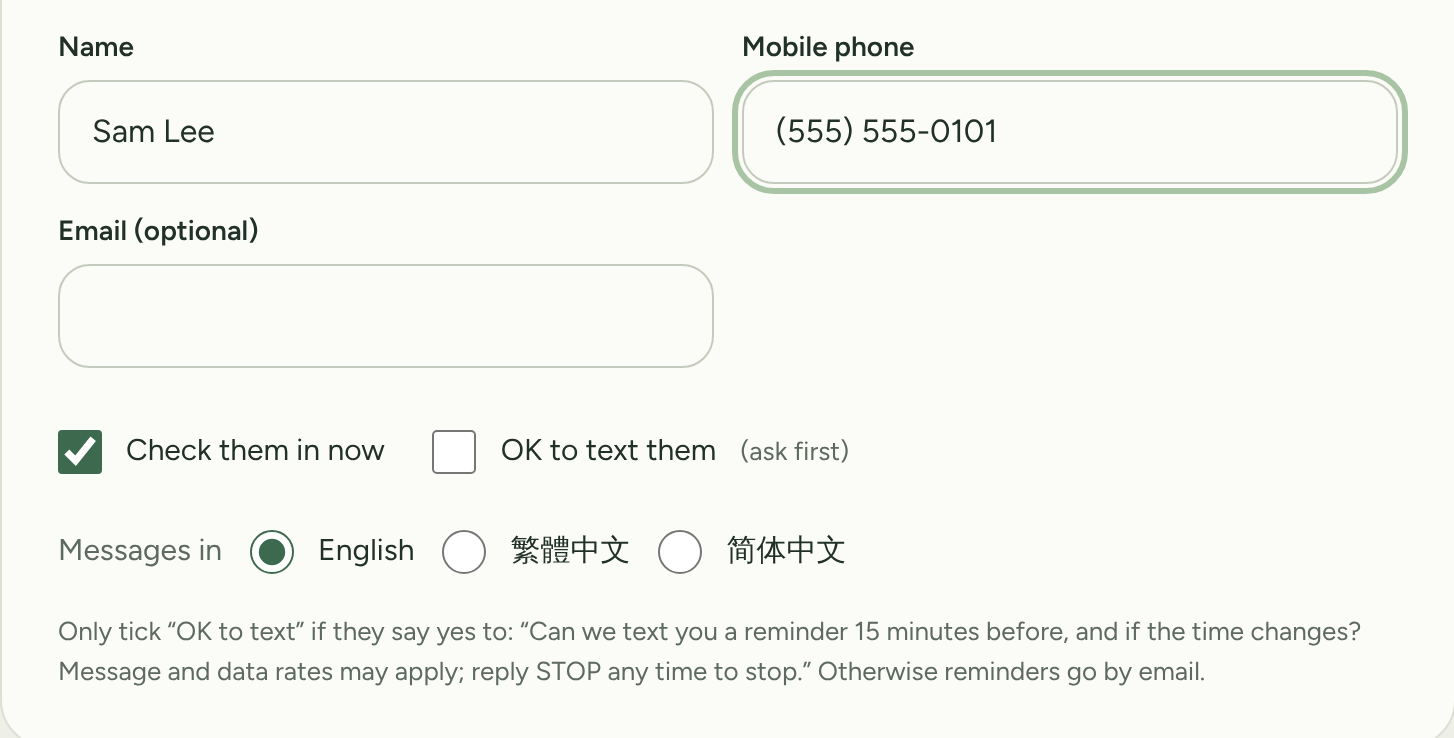
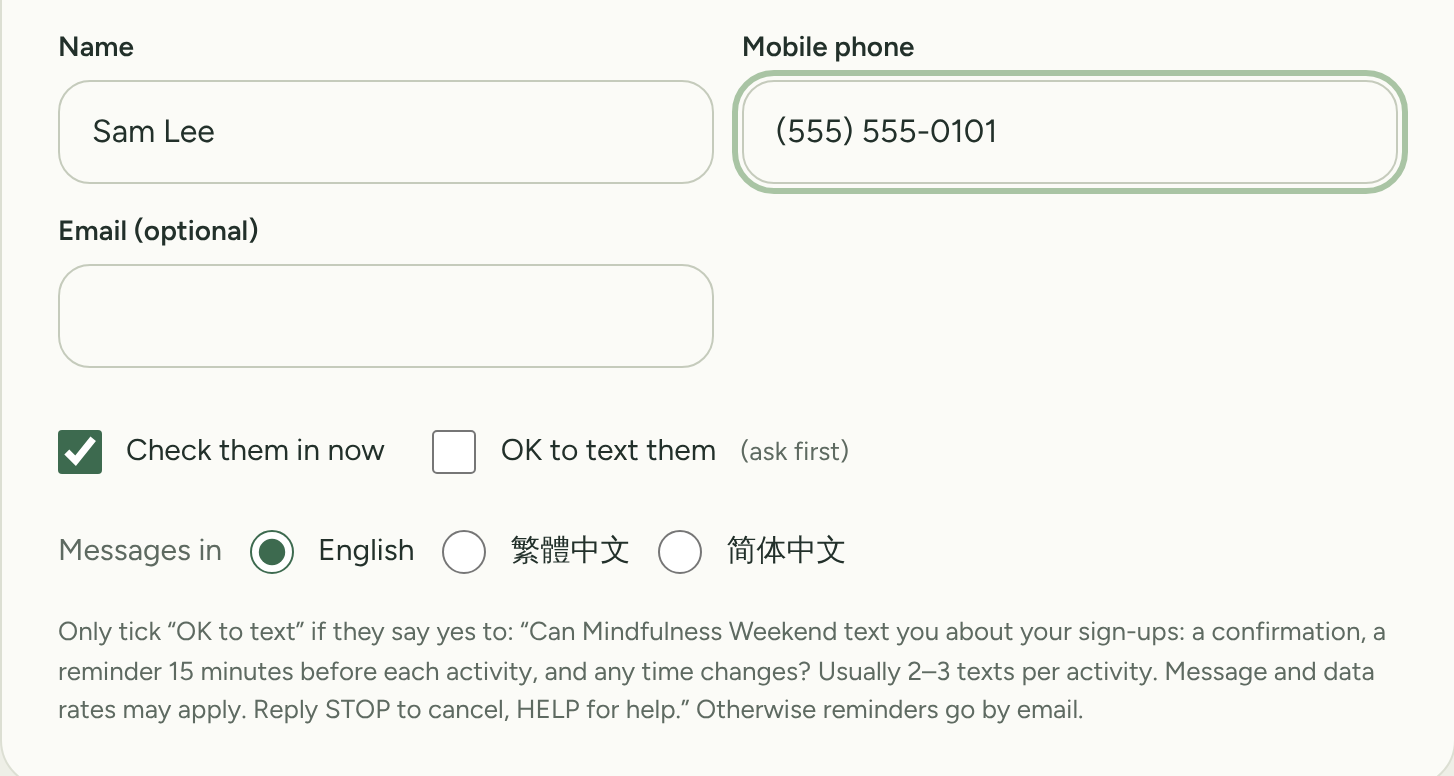
Texting: welcome text on first opt-in, STOP on every event text, fuller staff script
Fixes for carrier rejection 30924 (consent language):
- The first time a number opts in it gets a welcome text naming the event, what
  we send, frequency, rates, HELP and STOP (the campaign's opt-in message)
- Reminder and time-change texts end with "Reply STOP to opt out" (emails don't)
- The question staff ask walk-ins names the event, what we send, how often,
  rates, STOP and HELP; same on /sms-opt-in, with a refreshed screenshot

Claude-Session: https://claude.ai/code/session_01Js1m6sqRAEqqMC9RyX5Hcf

diff --git a/src/lib/i18n.ts b/src/lib/i18n.ts
@@ -197,10 +197,12 @@ const en = {
       `${n} ${n === 1 ? 'spot' : 'spots'} for ${name}. Show your code ${code}, your name or your phone number at the door.`,
     willRemind: (t: string) => `We'll remind you at ${t}.`,
     plansChanged: 'Plans changed? Cancel from My sign-ups so someone else can take your spots.',
+    welcomeSms: (event: string) =>
+      `${event}: You're signed up for texts about your activity sign-ups: confirmations, reminders 15 min before, time changes and sign-in codes you request. Msg frequency varies (usually 2–3 per activity). Msg & data rates may apply. Reply HELP for help, STOP to cancel.`,
     confirmSms: (event: string, first: string, act: string, when: string, place: string, n: number, code: string, reminder: string) =>
       `${event}: ${first} is in for ${act}, ${when}, ${place}. ${n} ${n === 1 ? 'spot' : 'spots'}, code ${code}. ${reminder} Reply STOP to opt out.`.replace(/\s+/g, ' ').trim(),
     reminderSms: (event: string, first: string, act: string, time: string, place: string, n: number, code: string, url: string) =>
-      `${event}: ${first}, ${act} starts in 15 min (${time}, ${place}). ${n} ${n === 1 ? 'spot' : 'spots'}, code ${code}.\n\nCan't make it? Let us know so someone else can take your spots: ${url}`,
+      `${event}: ${first}, ${act} starts in 15 min (${time}, ${place}). ${n} ${n === 1 ? 'spot' : 'spots'}, code ${code}.\n\nCan't make it? Let us know so someone else can take your spots: ${url}\n\nReply STOP to opt out.`,
     reminderSubject: (act: string, time: string) => `In 15 minutes: ${act}, ${time}`,
     reminderTitle: (act: string) => `In 15 minutes: ${act}`,
     reminderLines: (act: string, time: string, place: string, n: number) => [
@@ -214,6 +216,7 @@ const en = {
     loginTitle: 'Your sign-in code',
     timeChange: (event: string, act: string, to: string, from: string, code: string) =>
       `${event}: time change. ${act} now starts at ${to} (was ${from}). Your spots and code ${code} stay the same.`,
+    stopSuffix: ' Reply STOP to opt out.',
     timeChangeSubject: (act: string, to: string) => `Time change: ${act} now at ${to}`,
   },
 };
@@ -391,8 +394,9 @@ const zh: Dict = {
     willRemind: (t) => `我們會在${t} 提醒你。`,
     plansChanged: '行程有變？請到「我的報名」取消，把名額留給其他人。',
     // Kept short: a Chinese text message holds about 70 characters per part.
+    welcomeSms: (event) => `${event}：你已訂閱與你的活動報名相關的簡訊：報名確認、開始前 15 分鐘提醒、時段異動，以及你申請的登入代碼。簡訊頻率不一（每項活動通常 2–3 則）。可能產生簡訊及數據傳輸費用。回覆 HELP 取得協助，回覆 STOP 取消。`,
     confirmSms: (event, first, act, when, place, n, code, reminder) => `${event}：${first}已報名${act}，${when}，${place}。${n}位，代碼 ${code}。${reminder}回覆 STOP 取消簡訊。`,
-    reminderSms: (event, first, act, time, place, n, code, url) => `${event}：${first}，${act} 15 分鐘後開始（${time}，${place}）。${n}位，代碼 ${code}。無法參加請取消：${url}`,
+    reminderSms: (event, first, act, time, place, n, code, url) => `${event}：${first}，${act} 15 分鐘後開始（${time}，${place}）。${n}位，代碼 ${code}。無法參加請取消：${url} 回覆 STOP 取消。`,
     reminderSubject: (act, time) => `15 分鐘後開始：${act}，${time}`,
     reminderTitle: (act) => `15 分鐘後開始：${act}`,
     reminderLines: (act, time, place, n) => [
@@ -405,6 +409,7 @@ const zh: Dict = {
     loginSubject: (code) => `你的登入代碼：${code}`,
     loginTitle: '你的登入代碼',
     timeChange: (event, act, to, from, code) => `${event}：時段異動。${act}改為${to} 開始（原為${from}）。名額與代碼 ${code} 不變。`,
+    stopSuffix: '回覆 STOP 取消。',
     timeChangeSubject: (act, to) => `時段異動：${act}改為${to}`,
   },
 };
@@ -580,8 +585,9 @@ const zhs: Dict = {
     willRemind: (t) => `我们会在${t} 提醒你。`,
     plansChanged: '行程有变？请到“我的报名”取消，把名额留给其他人。',
     // Kept short: a Chinese text message holds about 70 characters per part.
+    welcomeSms: (event) => `${event}：你已订阅与你的活动报名相关的短信：报名确认、开始前 15 分钟提醒、时段变更，以及你申请的登录验证码。短信频率不一（每项活动通常 2–3 条）。可能产生短信和数据流量费用。回复 HELP 获取帮助，回复 STOP 退订。`,
     confirmSms: (event, first, act, when, place, n, code, reminder) => `${event}：${first}已报名${act}，${when}，${place}。${n}位，签到码 ${code}。${reminder}回复 STOP 退订短信。`,
-    reminderSms: (event, first, act, time, place, n, code, url) => `${event}：${first}，${act} 15 分钟后开始（${time}，${place}）。${n}位，签到码 ${code}。无法参加请取消：${url}`,
+    reminderSms: (event, first, act, time, place, n, code, url) => `${event}：${first}，${act} 15 分钟后开始（${time}，${place}）。${n}位，签到码 ${code}。无法参加请取消：${url} 回复 STOP 退订。`,
     reminderSubject: (act, time) => `15 分钟后开始：${act}，${time}`,
     reminderTitle: (act) => `15 分钟后开始：${act}`,
     reminderLines: (act, time, place, n) => [
@@ -594,6 +600,7 @@ const zhs: Dict = {
     loginSubject: (code) => `你的登录验证码：${code}`,
     loginTitle: '你的登录验证码',
     timeChange: (event, act, to, from, code) => `${event}：时段变更。${act}改为${to} 开始（原为${from}）。名额与签到码 ${code} 不变。`,
+    stopSuffix: '回复 STOP 退订。',
     timeChangeSubject: (act, to) => `时段变更：${act}改为${to}`,
   },
 };

diff --git a/src/app/staff/(tools)/walk-in/WalkInForm.tsx b/src/app/staff/(tools)/walk-in/WalkInForm.tsx
@@ -8,6 +8,9 @@ export type WalkInActivity = {
   slots: { id: string; time: string; remaining: number; capacity: number; soon: boolean; ended: boolean }[];
 };
 
+/** What staff ask a walk-in before ticking "OK to text" (carrier rules: who, what, how often, rates, STOP/HELP). */
+export const TEXT_SCRIPT = `“Can ${process.env.NEXT_PUBLIC_EVENT_NAME ?? 'Mindfulness Weekend'} text you about your sign-ups: a confirmation, a reminder 15 minutes before each activity, and any time changes? Usually 2–3 texts per activity. Message and data rates may apply. Reply STOP to cancel, HELP for help.”`;
+
 const spots = (n: number) => `${n} ${n === 1 ? 'spot' : 'spots'}`;
 
 export default function WalkInForm({ options, initialKey, initialSlot }: { options: WalkInActivity[]; initialKey: string; initialSlot: string | null }) {
@@ -112,7 +115,7 @@ export default function WalkInForm({ options, initialKey, initialSlot }: { optio
 
         <div style={{ display: 'flex', flexWrap: 'wrap', gap: '10px 24px' }}>
           <label className="check"><input type="checkbox" name="checkInNow" checked={checkNow} onChange={(e) => setCheckNow(e.target.checked)} /> Check them in now</label>
-          <label className="check" title="Ask first: “Can we text you a reminder 15 minutes before, and if the time changes? Usual message rates apply; reply STOP any time.”">
+          <label className="check" title={`Ask first: ${TEXT_SCRIPT}`}>
             <input type="checkbox" name="okToText" /> OK to text them <span className="muted" style={{ fontSize: 13 }}>(ask first)</span>
           </label>
           <span role="radiogroup" aria-label="Messages in" style={{ display: 'flex', alignItems: 'center', gap: 14, fontSize: 15 }}>
@@ -123,8 +126,7 @@ export default function WalkInForm({ options, initialKey, initialSlot }: { optio
           </span>
         </div>
         <p className="muted" style={{ fontSize: 13, margin: '-12px 0 0', lineHeight: 1.5 }}>
-          Only tick “OK to text” if they say yes to: “Can we text you a reminder 15 minutes before, and if the time changes?
-          Message and data rates may apply; reply STOP any time to stop.” Otherwise reminders go by email.
+          Only tick “OK to text” if they say yes to: {TEXT_SCRIPT} Otherwise reminders go by email.
         </p>
         {slot?.soon ? <span className="muted" style={{ fontSize: 13, marginTop: -12 }}>This session starts in under 15 minutes, so no reminder will be sent for it.</span> : null}
       </div>

diff --git a/src/app/sms-opt-in/page.tsx b/src/app/sms-opt-in/page.tsx
@@ -77,12 +77,12 @@ export default async function SmsOptIn() {
           which is also unchecked by default, staff ask the guest:
         </p>
         <blockquote className="quote">
-          “Can we text you a reminder 15 minutes before, and if the time changes? Message and data rates may apply;
-          reply STOP any time to stop.”
+          “Can {event} text you about your sign-ups: a confirmation, a reminder 15 minutes before each activity, and any
+          time changes? Usually 2–3 texts per activity. Message and data rates may apply. Reply STOP to cancel, HELP for help.”
         </blockquote>
         <p>Staff tick the box only if the guest says yes. Otherwise their reminders go by email.</p>
         <figure className="shot">
-          <img src="/sms-opt-in/walk-in-form.png" alt="The staff walk-in form: name, mobile phone and email fields, an unchecked “OK to text them (ask first)” box, and the question staff read to the guest." width={727} height={369} />
+          <img src="/sms-opt-in/walk-in-form.png" alt="The staff walk-in form: name, mobile phone and email fields, an unchecked “OK to text them (ask first)” box, and the question staff read to the guest." width={727} height={388} />
           <figcaption>The staff walk-in form, with the unchecked “OK to text them” box and the question staff read.</figcaption>
         </figure>
 
@@ -90,7 +90,10 @@ export default async function SmsOptIn() {
         <ul>
           <li>Message frequency varies with how many activities someone signs up for, usually 2–3 texts per activity.</li>
           <li>Message and data rates may apply.</li>
-          <li>Every text starts with “{event}:” or names {event}. The first text says “Reply STOP to opt out.”</li>
+          <li>
+            The first time a number opts in, we send: “{dict('en').msg.welcomeSms(event)}”
+          </li>
+          <li>Every text names {event} and says how to opt out (“Reply STOP to opt out”).</li>
           <li>Reply <b>STOP</b> at any time to stop texts; reply <b>HELP</b> for help, or email <a href={`mailto:${mail}`}>{mail}</a>.</li>
           <li>Phone numbers and text-message consent are never shared with third parties or sold. See our <a href="/privacy">Privacy policy</a> and <a href="/terms">Terms</a>.</li>
         </ul>

diff --git a/tests/texting-consent.test.ts b/tests/texting-consent.test.ts
@@ -62,10 +62,28 @@ describe('texting only with consent', () => {
   it('texts a confirmation that names the event and says how to stop, when they opted in', async () => {
     const r = await book(true);
     await sendConfirmation((await getBooking(r.bookingId))!);
-    expect(texts).toHaveLength(1);
+    // First opt-in for this number: a welcome text with all the required disclosures, then the confirmation.
+    expect(texts).toHaveLength(2);
     expect(texts[0].to).toBe(E164);
-    expect(texts[0].body).toMatch(/^Mindfulness Weekend: Mei is in for Pottery Wheel, .* Reply STOP to opt out\.$/);
+    expect(texts[0].body).toMatch(/^Mindfulness Weekend: You're signed up for texts/);
+    for (const part of ['Msg frequency varies', 'Msg & data rates may apply', 'Reply HELP for help, STOP to cancel']) expect(texts[0].body).toContain(part);
+    expect(texts[1].body).toMatch(/^Mindfulness Weekend: Mei is in for Pottery Wheel, .* Reply STOP to opt out\.$/);
     expect(outbox.map((m) => m.channel)).toEqual(['email']); // the email confirmation still goes too
+
+    // A second sign-up from the same number gets just the confirmation.
+    texts = [];
+    const later = (await pool.query<{ id: string }>(`insert into slots (activity_id, starts_at, capacity) values ($1, '2026-11-14 19:00:00+00', 10) returning id`, [actId])).rows[0].id;
+    const h2 = await holdSpots(later, 1);
+    const r2 = await confirmBooking(h2.holdId, { contact: mei, remindSms: true, remindEmail: false });
+    await sendConfirmation((await getBooking(r2.bookingId))!);
+    expect(texts).toHaveLength(1);
+    expect(texts[0].body).toMatch(/Mei is in for Pottery Wheel/);
+  });
+
+  it('puts "Reply STOP to opt out" on reminder texts', async () => {
+    const r = await book(true);
+    await sendReminder((await getBooking(r.bookingId))!);
+    expect(texts[0].body).toMatch(/^Mindfulness Weekend: Mei, Pottery Wheel starts in 15 min[\s\S]*Reply STOP to opt out\.$/);
   });
 
   it('only texts walk-ins when staff ticked "OK to text"', async () => {

diff --git a/src/lib/notify.ts b/src/lib/notify.ts
@@ -28,6 +28,15 @@ export async function markOptedOut(phone: string) {
   );
 }
 
+/** True when this number has exactly one booking with texts on, i.e. it just opted in for the first time. */
+async function firstOptIn(phone: string) {
+  const r = await getPool().query<{ n: number }>(
+    `select count(*)::int as n from bookings b join people p on p.id = b.person_id where p.phone = $1 and b.remind_sms`,
+    [phone],
+  );
+  return r.rows[0].n === 1;
+}
+
 /** Sends a text; returns false (and records the opt-out) if the number has replied STOP. */
 async function trySms(phone: string, text: string) {
   try {
@@ -86,8 +95,10 @@ export async function sendConfirmation(b: BookingView) {
       emailHtml(lang, m.youreInTitle(activity), lines, b.code, { href: url, label: dict(lang).mySignups }),
     );
   }
-  // The first text anyone gets names the event and says how to stop (carrier rules).
+  // Texts, if they opted in. The first time a number opts in it gets a welcome text first (carrier
+  // rules: names the event, what we send, how often, rates, HELP and STOP); every text names the event.
   if (b.remindSms && b.personPhone && smsEnabled()) {
+    if (await firstOptIn(b.personPhone) && !(await trySms(b.personPhone, m.welcomeSms(eventName(lang))))) return;
     await trySms(b.personPhone, m.confirmSms(eventName(lang), firstName(b.personName), activity, when, place, b.partySize, b.code ?? '', reminder));
   }
 }
@@ -136,6 +147,6 @@ export async function sendTimeChange(
   const m = dict(p.lang).msg;
   const activity = localText(act.name, act.nameZh, p.lang);
   const text = m.timeChange(eventName(p.lang), activity, fmtTimeL(to, p.lang), fmtTimeL(from, p.lang), p.code);
-  if (p.sms && p.phone && smsEnabled() && (await trySms(p.phone, text))) return;
+  if (p.sms && p.phone && smsEnabled() && (await trySms(p.phone, text + m.stopSuffix))) return;
   if (p.email) return sendEmail(p.email, m.timeChangeSubject(activity, fmtTimeL(to, p.lang)), text);
 }
